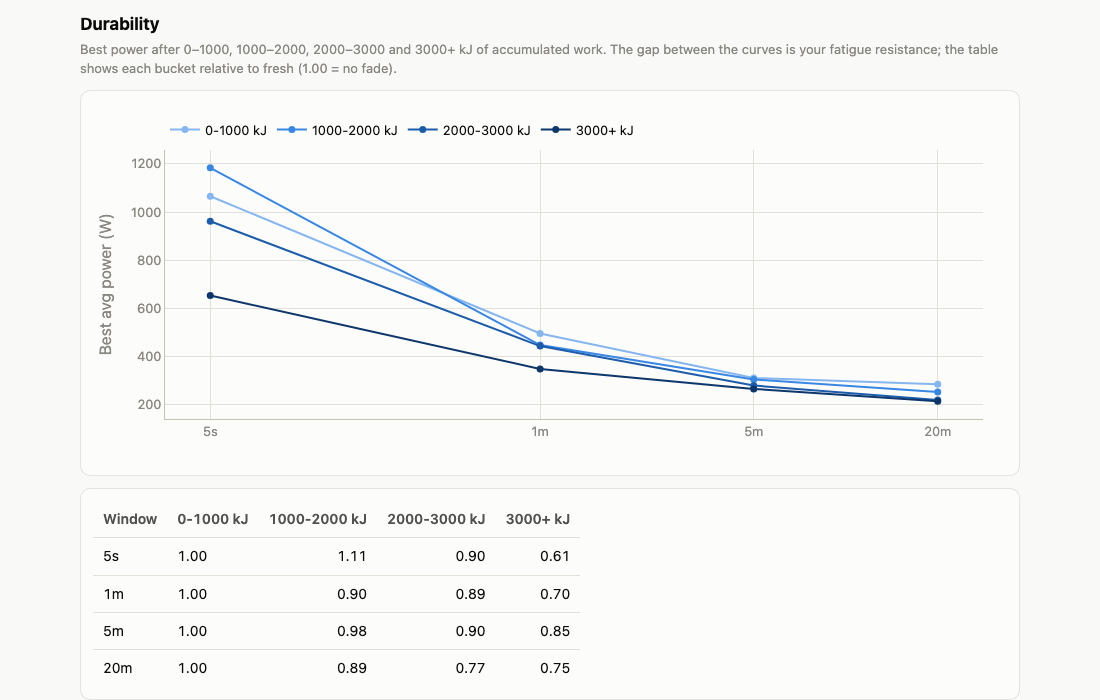
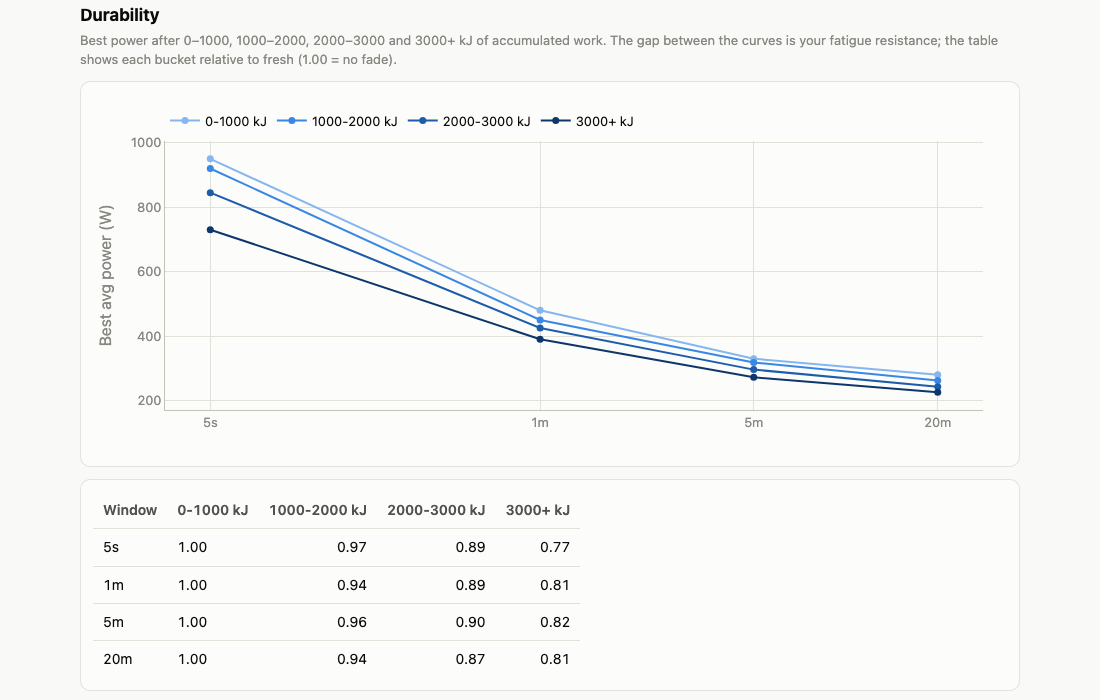
render durability screenshot from synthetic demo data

diff --git a/README.md b/README.md
@@ -74,7 +74,7 @@ ride-analytics compare path/to/activities --period-a 2025-01-01:2025-06-30 --per
 
 ![Durability section](docs/durability-screenshot.png)
 
-*Durability section of the report: one power curve per kJ bucket; the gap between the curves is fatigue resistance.*
+*Durability section of the report: one power curve per kJ bucket; the gap between the curves is fatigue resistance. Rendered from synthetic demo data.*
 
 **VAM (Vertical Ascent Metres per hour)** is climbing speed measured vertically: elevation gain divided by climbing time. It makes climbs of different length and gradient directly comparable — a steady club rider climbs at 700–900 m/h, pro race pace on a mountain pass is 1,500+.
 